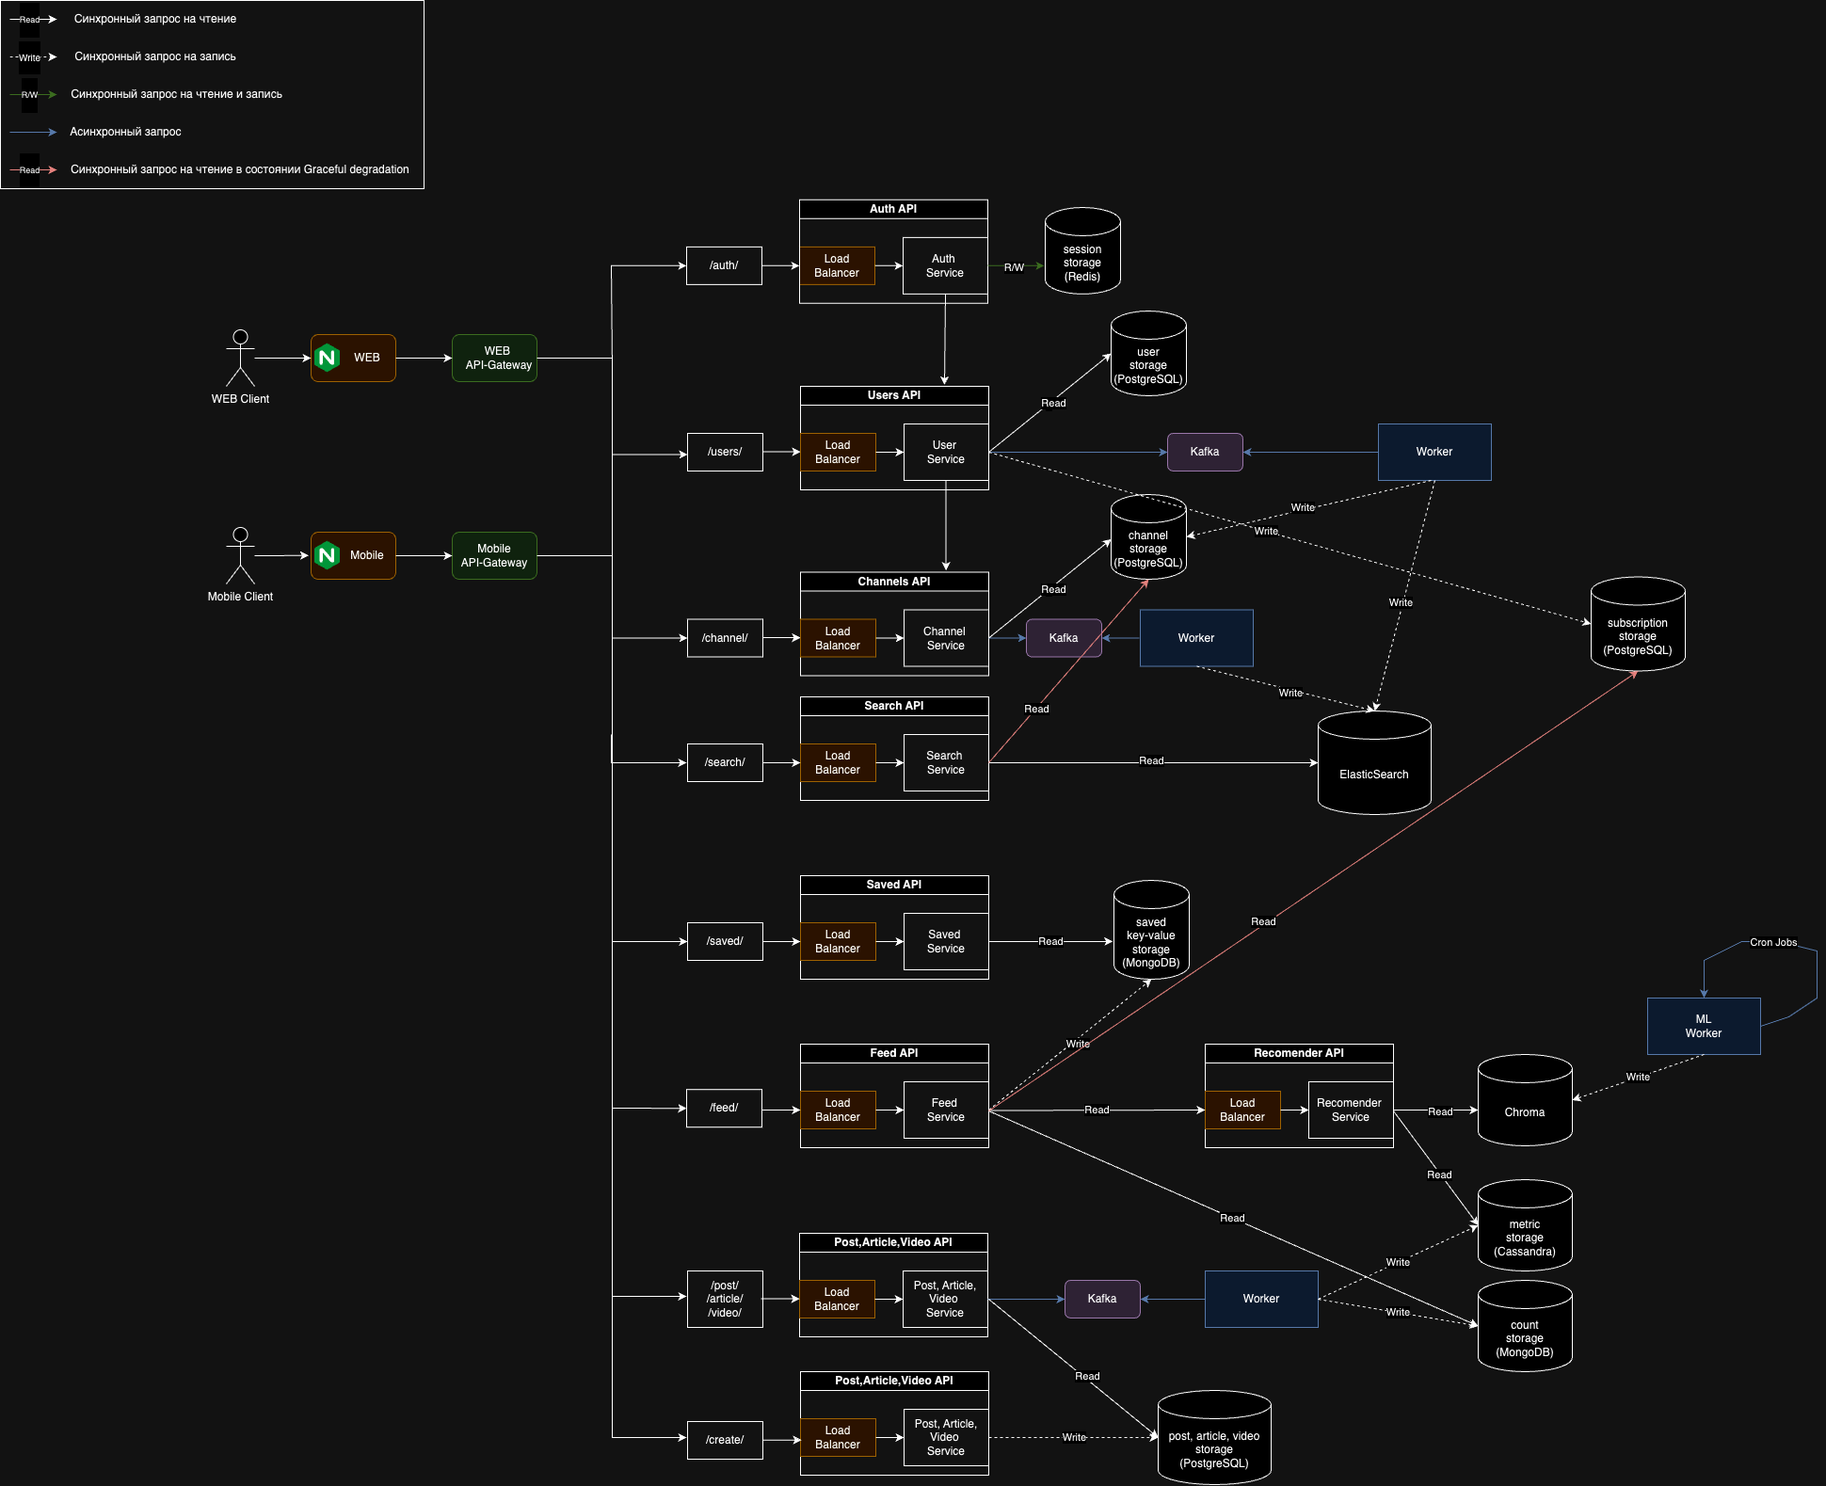
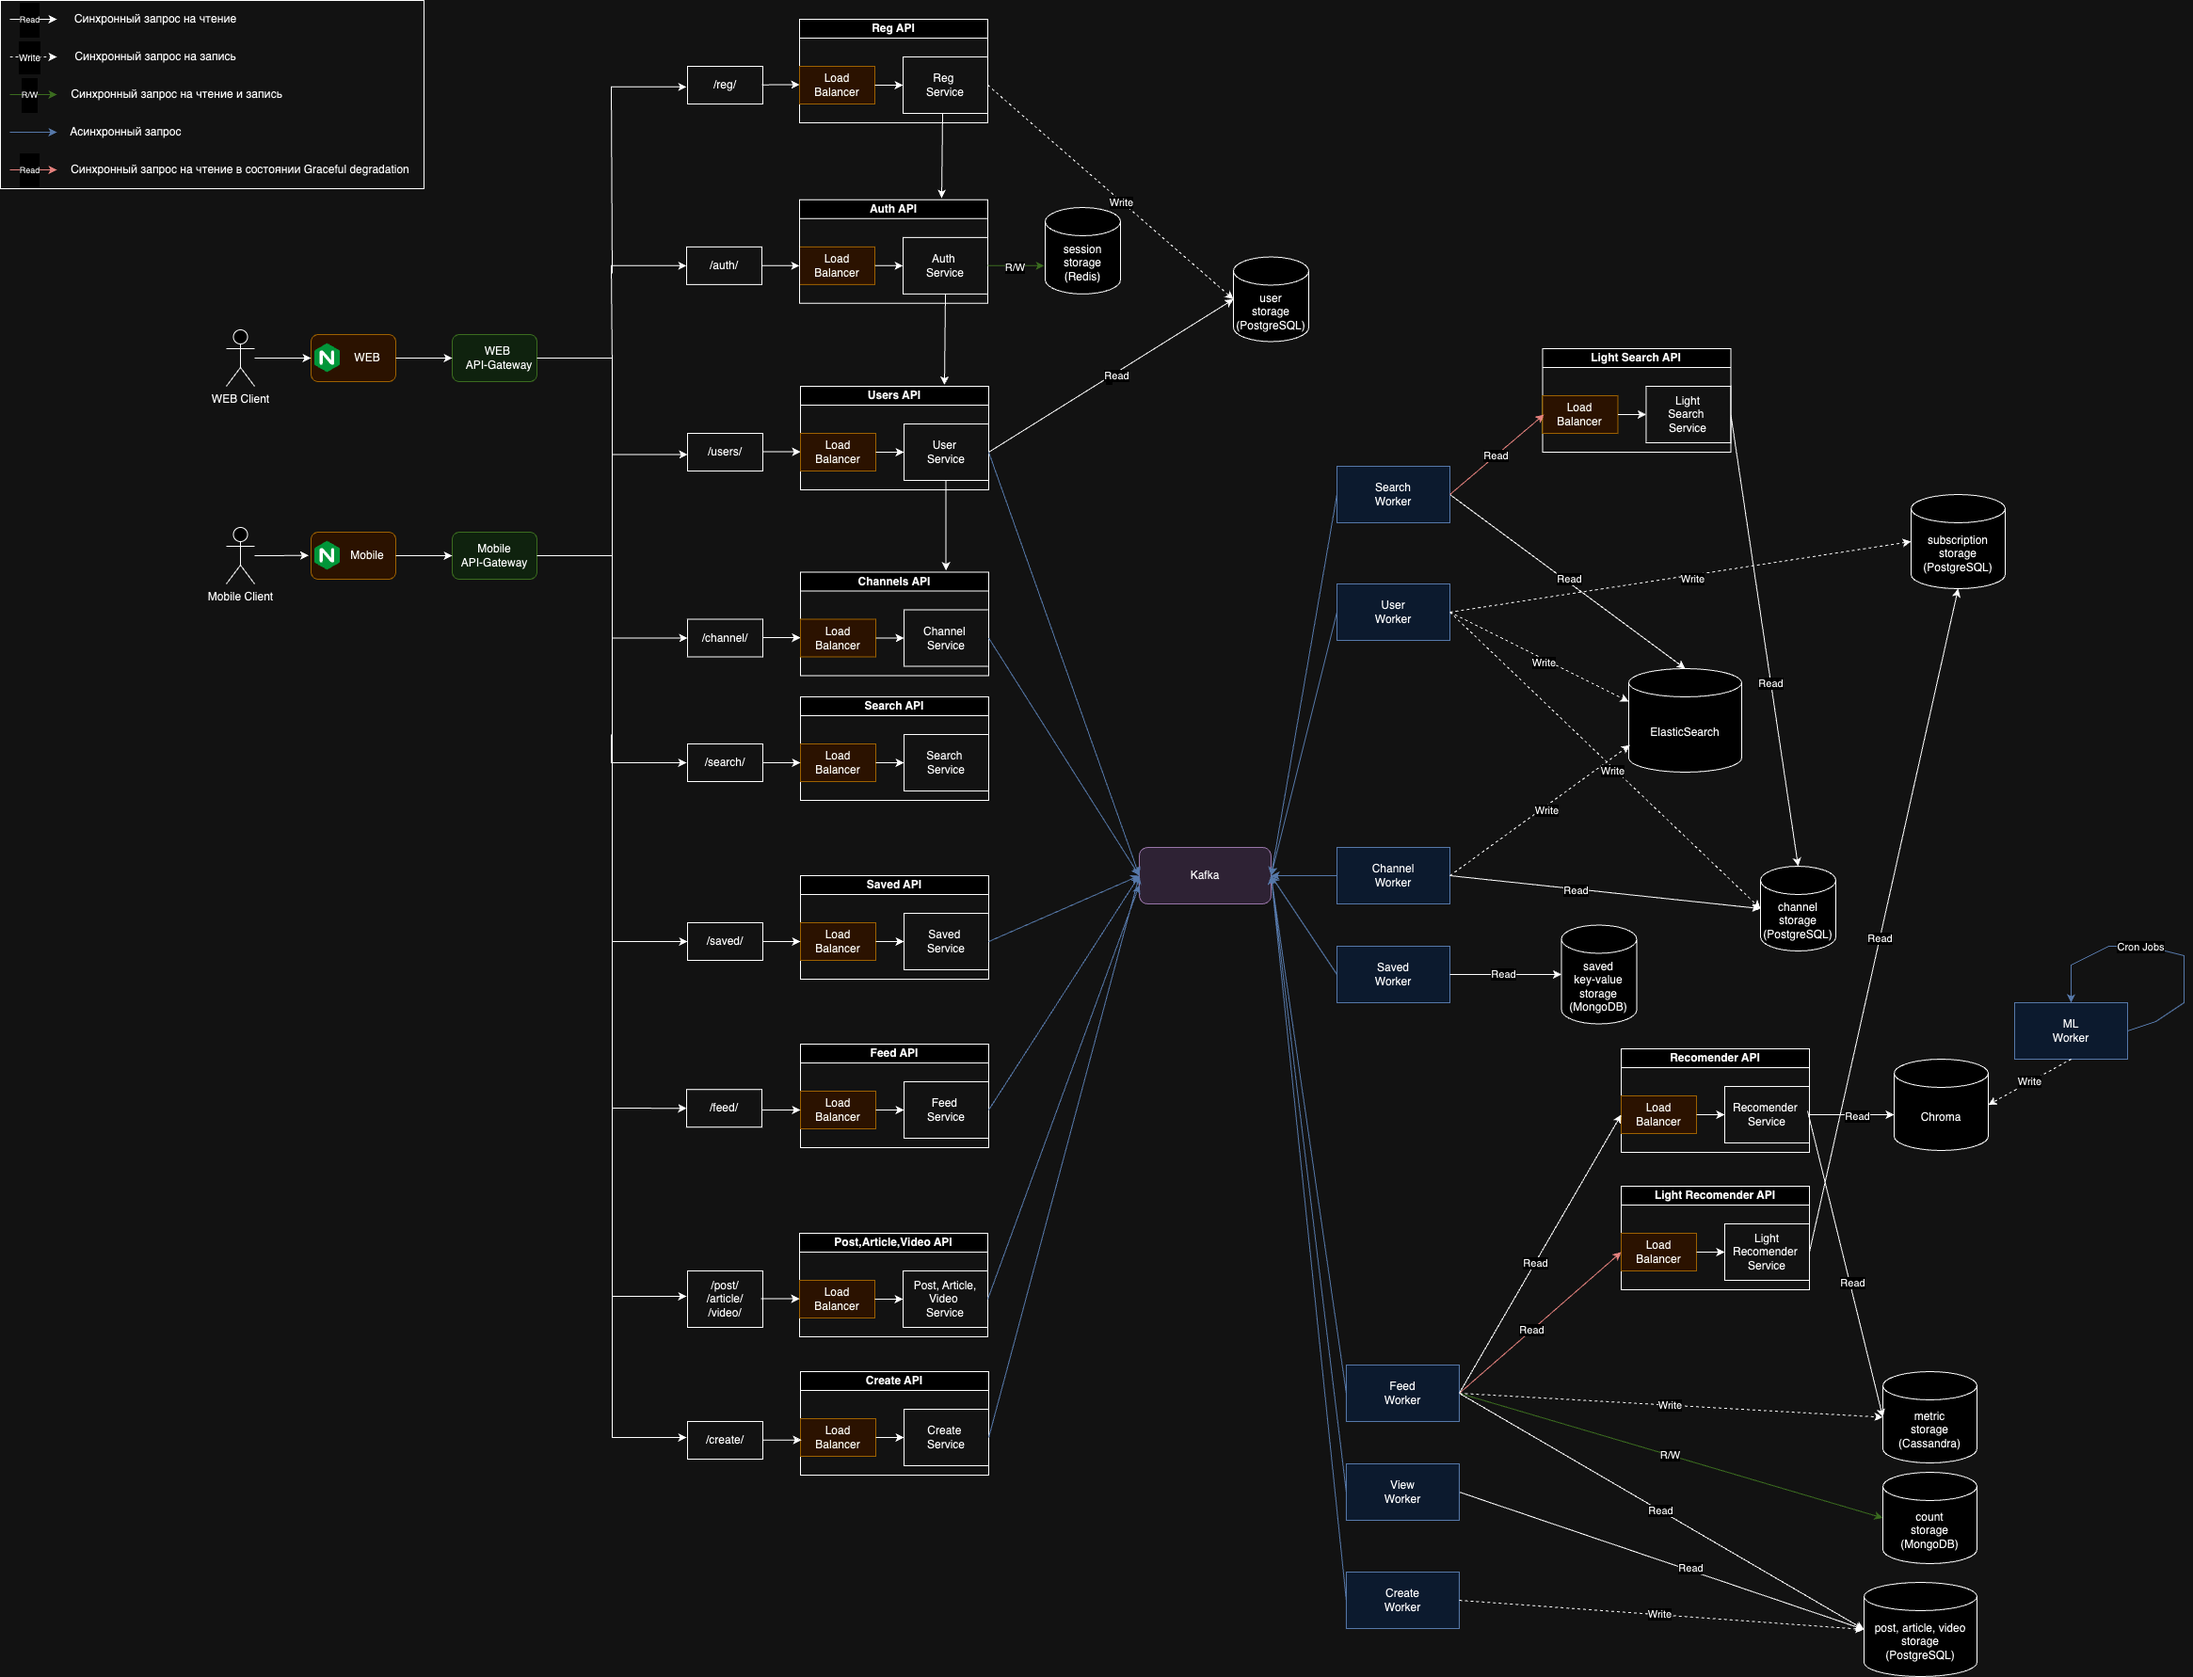
one more updates

diff --git a/README.md b/README.md
@@ -296,6 +296,8 @@ Nginx вместе с Kubernetes могут обеспечить высокую 
 
 - Для таблиц user, channel, subscription, post, article, video, moderation - id;
 
+- Также для работы сервиса light search нужно добавить индекс для поля title таблицы channel;
+
 - Для таблиц post_finish_reading_metric, post_action_metric, post_comment_metric,  post_grade, post_comment - по полю post_id;
 
 - Для таблиц video_action_metric, video_comment_metric, video_grade, video_comment - по полю video_id;
@@ -453,11 +455,11 @@ D(1, 2) = min(`D(0,2) + 1; D(1,1) + 1; D(0, 1) + 1`) = min(`2+1; 1+1; 1+1`) = 2.
 
 - Отказ компонента рекомендательной системы: 
   
-  Если сервис, отвечающий за рекомендации (Recomender) контента пользователям перестает работать, то приложение переходит в состояние Graceful degradation и мы начинаем использовать альтернативный метод показа ленты: идем в БД Subscription, смотрим, на кого подписан пользователь и достаем последние публикации этих каналов и отдаем в ленте пользователю.
+  Если сервис, отвечающий за рекомендации (Recomender) контента пользователям перестает работать, то приложение переходит в состояние Graceful degradation и начинает использоваться упрощенный метод показа ленты: идем в сервис Light Recomender, который достает нам публикации по упрощенной логике (достает последние публикации каналов, на которые подписан пользователь).
 
 - Отказ Elasticsearch:
 
-  При отказе Elasticsearch приложение переходит в состояние Graceful degradation и поиск начинает работать альтернативным методом: идем в БД Channel и делаем поиск по полю title.
+  При отказе Elasticsearch приложение переходит в состояние Graceful degradation и начинает использоваться упрощенный метод поиска: идем в сервис Light Search, который делает поиск по полю title в БД channel.
 
 - Отказ счетчиков:
 
